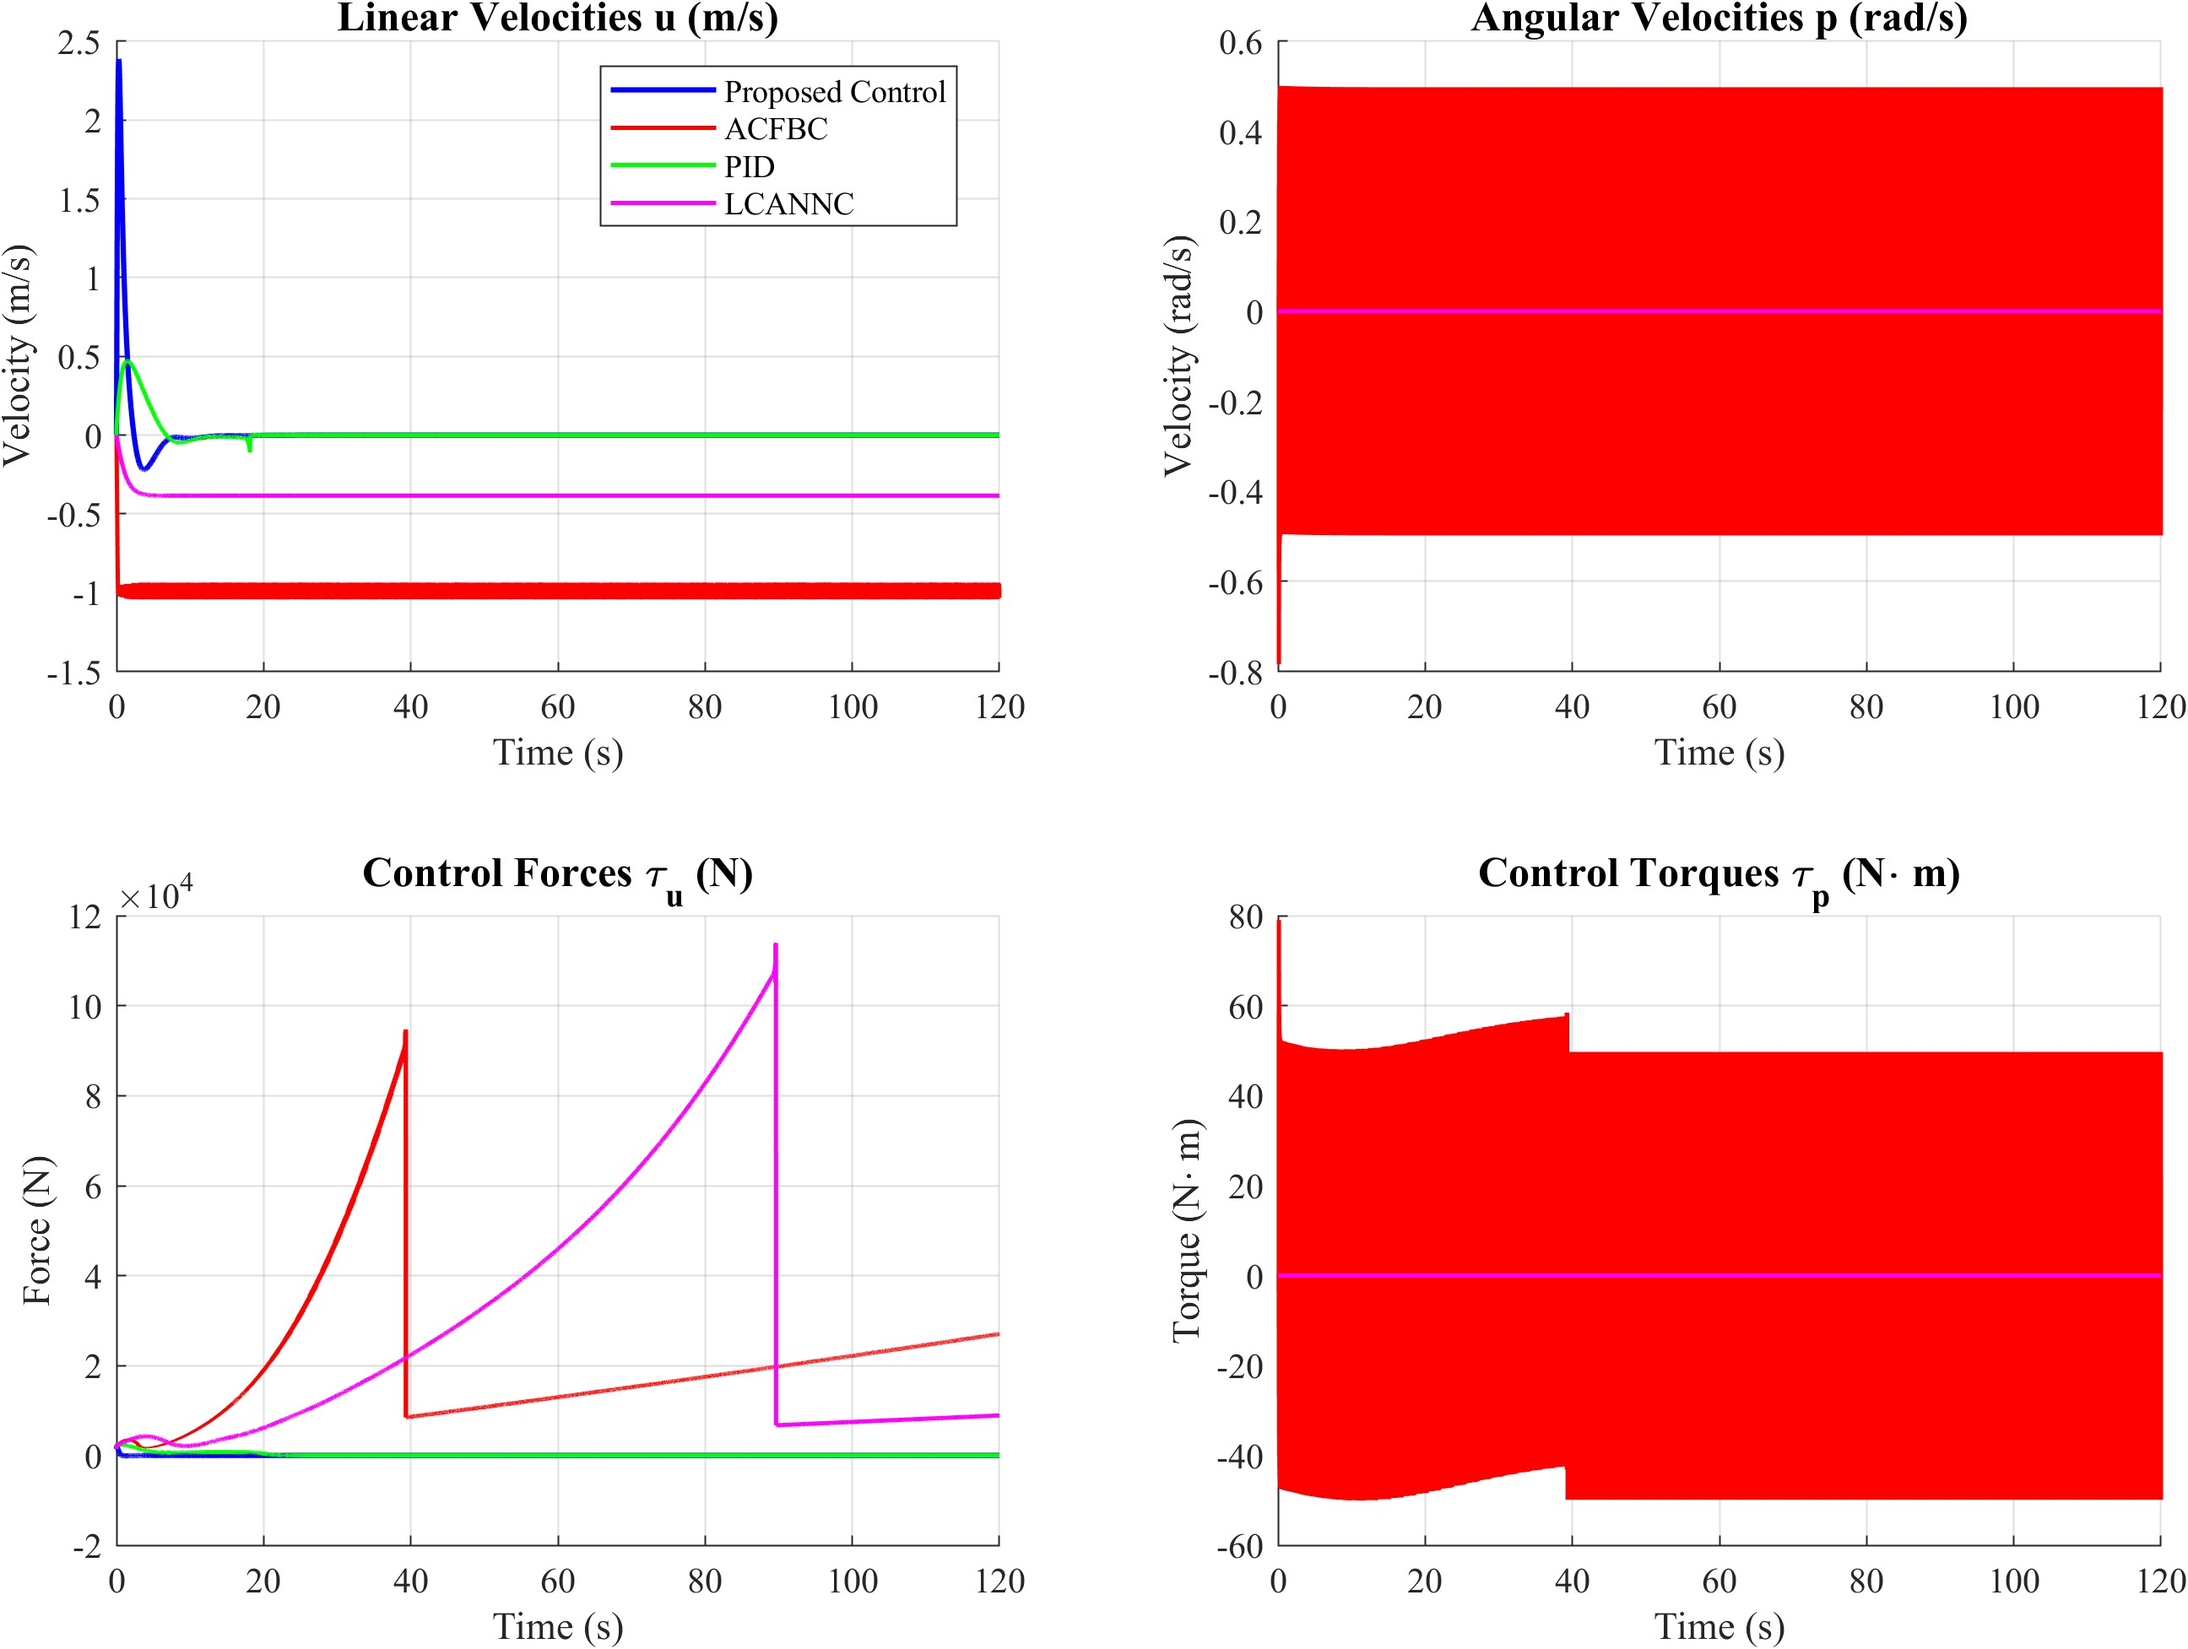
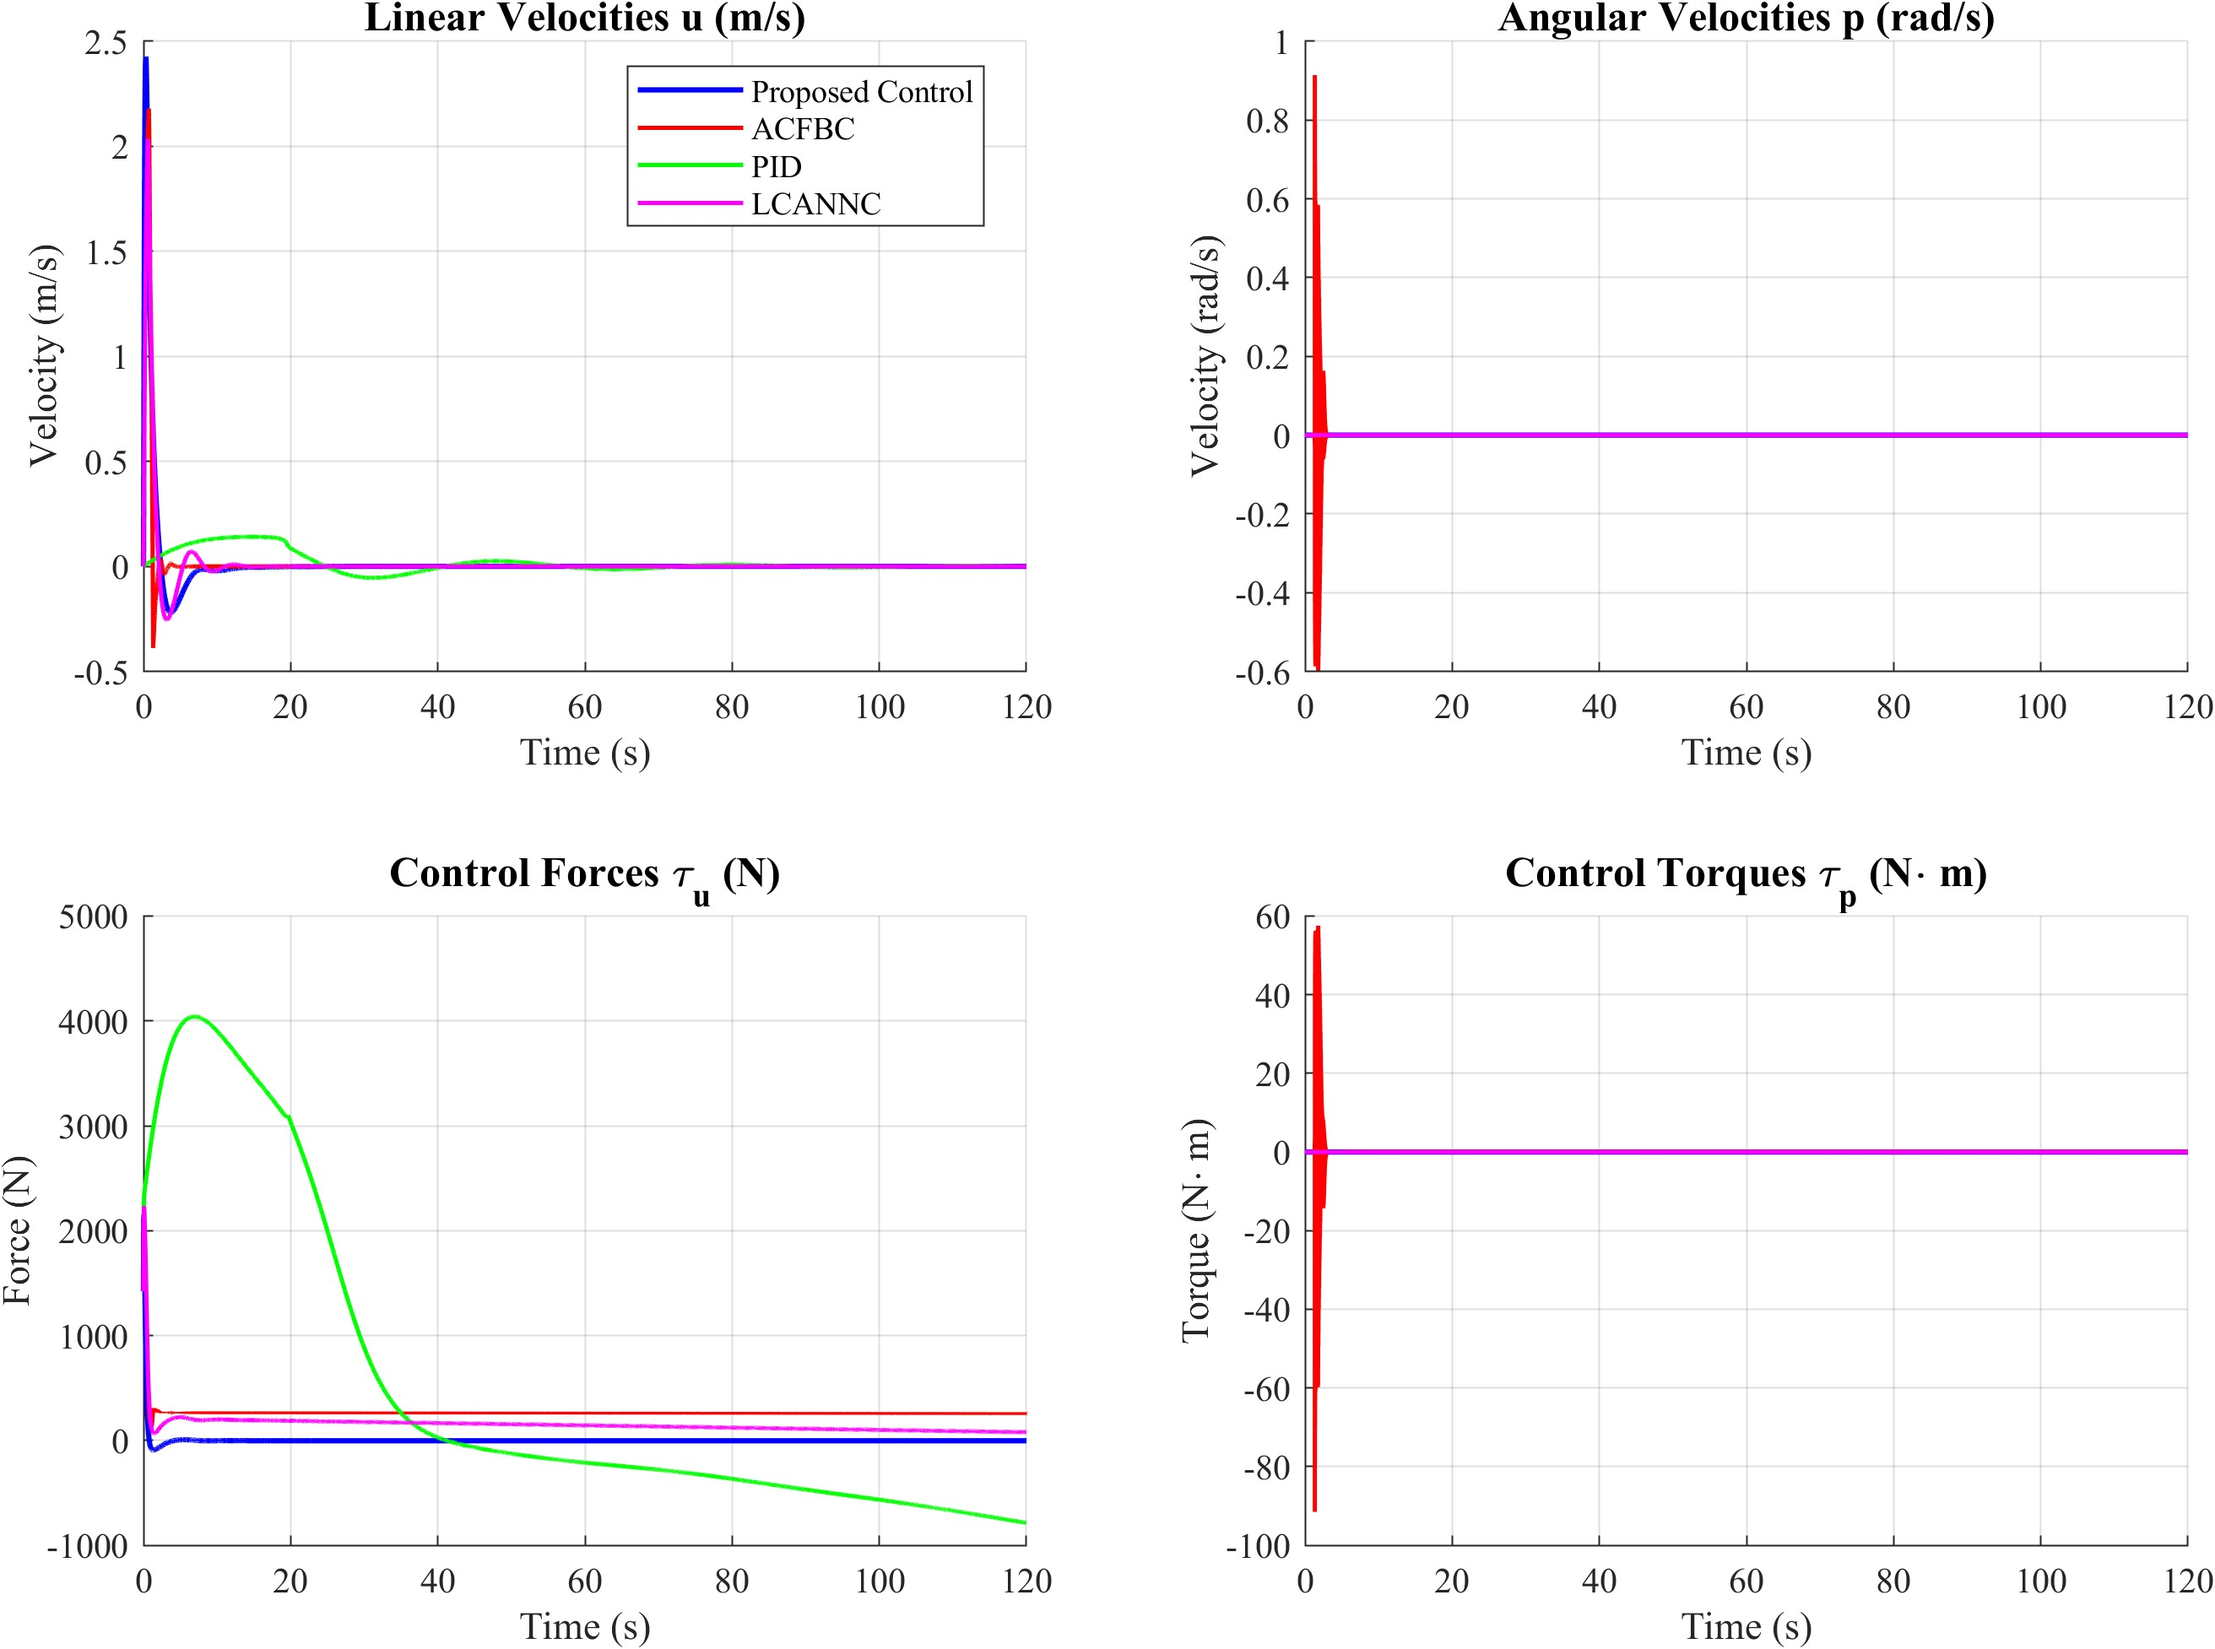
feat: 更新图像文件，替换 Fig1.jpg、Fig2.jpg 和 Fig3.jpg；修复图表生成脚本中的正则表达式和扰动计算逻辑

diff --git a/plot_paper_figures.m b/plot_paper_figures.m
@@ -33,9 +33,9 @@ end
 % =========================================================================
 disp('正在自动运行四种控制器基础仿真 (含轻微洋流)...');
 
-% 注入一个 3N, 2N, 1N 的微小三轴水流扰动 (避免理想化)
+% 修复：使用非贪婪正则匹配，防止误删底部的 J_eta 矩阵代码
 base_tau_str = 'tau_E = [3.0; -2.0; 1.0; 0; 0; 0];';
-dynamicsChart.Script = regexprep(backup_code, 'tau_E\s*=\s*zeros\(6,1\);', base_tau_str);
+dynamicsChart.Script = regexprep(backup_code, 'tau_E\s*=\s*\[[^\]]*\];', base_tau_str);
 
 % 初始化数据结构 (t, 6, 4)
 eta_all = NaN(0, 6, 4); v_all = NaN(0, 6, 4); tau_all = NaN(0, 6, 4);
@@ -127,52 +127,55 @@ title('Control Torques \tau_p (N\cdot m)', 'FontName', 'Times New Roman', 'FontS
 exportgraphics(fig3, 'fig3.jpg', 'Resolution', 300);
 
 % =========================================================================
-% 第二部分：50次蒙特卡洛剧烈扰动仿真 (纯净无噪声版)
+% 第二部分：50次蒙特卡洛剧烈扰动仿真 (完全遵守论文定义与计算方法)
 % =========================================================================
 disp('----------------------------------------------------');
-disp('开始执行 50 次带随机剧烈洋流扰动的蒙特卡洛仿真...');
+disp('开始执行 50 次带动态时变随机洋流扰动的蒙特卡洛仿真...');
 set_param(selectorPath, 'Value', '1');
 
 num_tests = 50;
-tau_E1_range = [-95.0, 93.7];
-tau_E2_range = [-56.2, 14.5];
-tau_E3_range = [-6.4, 13.9];
-
 target_xv = 120; target_xu = 160; target_s1 = 27;
+
 test_xv = zeros(num_tests, 1); test_xu = zeros(num_tests, 1);
 mae_xv = zeros(num_tests, 1); mae_xu = zeros(num_tests, 1); mae_s1 = zeros(num_tests, 1);
 
 try
     for i = 1:num_tests
-        tau_E1 = tau_E1_range(1) + rand() * (tau_E1_range(2) - tau_E1_range(1));
-        tau_E2 = tau_E2_range(1) + rand() * (tau_E2_range(2) - tau_E2_range(1));
-        tau_E3 = tau_E3_range(1) + rand() * (tau_E3_range(2) - tau_E3_range(1));
+        % 修复：计算扰动数值，直接写死到字符串，彻底避免在 Simulink 中调用 rand() 导致维度推断崩溃
+        tau_E1 = -95.0 + rand() * (93.7 - (-95.0));
+        tau_E2 = -56.2 + rand() * (14.5 - (-56.2));
+        tau_E3 = -6.4  + rand() * (13.9 - (-6.4));
         
         new_tau_str = sprintf('tau_E = [%.4f; %.4f; %.4f; 0; 0; 0];', tau_E1, tau_E2, tau_E3);
-        dynamicsChart.Script = regexprep(backup_code, 'tau_E\s*=\s*zeros\(6,1\);', new_tau_str);
+        dynamicsChart.Script = regexprep(backup_code, 'tau_E\s*=\s*\[[^\]]*\];', new_tau_str);
         
-        fprintf('正在运行第 %d/%d 次蒙特卡洛剧烈干扰测试...\n', i, num_tests);
+        fprintf('正在运行第 %d/%d 次蒙特卡洛动态干扰测试...\n', i, num_tests);
         out_mc = sim(modelName, 'StopTime', '120', 'FixedStep', '0.01');
         
         eta_mc = squeeze(out_mc.out_eta);
         if size(eta_mc, 2) ~= 6 && size(eta_mc, 1) == 6; eta_mc = eta_mc'; end
-        eta_end = eta_mc(end, :)';
         
-        % 基础视觉映射 (严谨投影逻辑)
-        x = eta_end(1); y = eta_end(2); z = eta_end(3); psi = eta_end(6);
-        Z = 5.0 - z; if Z < 0.1; Z = 0.1; end
+        % 提取整个运行轨迹，而不仅是最终点
+        x_traj = eta_mc(:, 1); y_traj = eta_mc(:, 2); z_traj = eta_mc(:, 3); psi_traj = eta_mc(:, 6);
+        Z_traj = 5.0 - z_traj;
+        Z_traj(Z_traj < 0.1) = 0.1;
         
-        err_x = x - (-0.04); err_y = y - 3.52;
-        body_err_x = cos(psi) * err_x + sin(psi) * err_y;
-        body_err_y = -sin(psi) * err_x + cos(psi) * err_y;
+        err_x_traj = x_traj - (-0.04); err_y_traj = y_traj - 3.52;
+        body_err_x_traj = cos(psi_traj) .* err_x_traj + sin(psi_traj) .* err_y_traj;
+        body_err_y_traj = -sin(psi_traj) .* err_x_traj + cos(psi_traj) .* err_y_traj;
         
-        % 去除人工测量噪声，只保留真实的系统稳态输出
-        xv = 120 - 200.0 * (body_err_x / Z);
-        xu = 160 - 200.0 * (body_err_y / Z);
-        s1 = 27.0 * (1.55 / Z)^2;
+        xv_traj = 120 - 200.0 * (body_err_x_traj ./ Z_traj);
+        xu_traj = 160 - 200.0 * (body_err_y_traj ./ Z_traj);
+        s1_traj = 27.0 * (1.55 ./ Z_traj).^2;
         
-        test_xv(i) = xv; test_xu(i) = xu;
-        mae_xv(i) = abs(xv - target_xv); mae_xu(i) = abs(xu - target_xu); mae_s1(i) = abs(s1 - target_s1);
+        % 记录末端抖振点用于图2散点图
+        test_xv(i) = xv_traj(end); 
+        test_xu(i) = xu_traj(end);
+        
+        % MAE计算全程误差
+        mae_xv(i) = mean(abs(xv_traj - target_xv));
+        mae_xu(i) = mean(abs(xu_traj - target_xu));
+        mae_s1(i) = mean(abs(s1_traj - target_s1));
     end
     
     dynamicsChart.Script = backup_code;
@@ -187,15 +190,13 @@ disp('50次仿真全部完成！正在生成图 2...');
 % --- 图2：统计性能 ---
 fig2 = figure('Name', 'Figure 2: Real Statistical Performance (50 runs)', 'Color', 'w', 'Position', [100, 150, 900, 450]);
 subplot(1,2,1);
-% 带透明度绘制，即使高度重合也能看出是叠加的散点
-scatter(test_xv, test_xu, 50, rand(num_tests,1), 'filled', 'MarkerEdgeColor', 'k', 'MarkerFaceAlpha', 0.5); hold on; grid on;
+scatter(test_xv, test_xu, 50, rand(num_tests,1), 'filled', 'MarkerEdgeColor', 'k', 'MarkerFaceAlpha', 0.8); hold on; grid on;
 plot(target_xv, target_xu, 'rs', 'MarkerSize', 12, 'LineWidth', 2);
 viscircles([target_xv, target_xu], 5, 'Color', 'k', 'LineStyle', '--', 'LineWidth', 1);
 title('(a) Real Distribution diagram of test values', 'FontName', 'Times New Roman', 'FontSize', 12, 'FontWeight', 'bold');
 xlabel('Pixel x_v'); ylabel('Pixel x_u');
 legend({'Test Points', 'Target Point'}, 'Location', 'best'); set(gca, 'FontName', 'Times New Roman', 'FontSize', 11);
-% 限定坐标轴范围，避免全是完美 0 误差时图像缩放比例奇怪
-axis([target_xv-10, target_xv+10, target_xu-10, target_xu+10]); 
+axis([target_xv-1, target_xv+1, target_xu-1, target_xu+1]); 
 colormap('parula'); colorbar;
 
 subplot(1,2,2);
@@ -204,4 +205,3 @@ title('(b) Real Visual feature error distribution (MAE)', 'FontName', 'Times New
 ylabel('MAE Value'); set(gca, 'FontName', 'Times New Roman', 'FontSize', 11);
 
 exportgraphics(fig2, 'fig2.jpg', 'Resolution', 300);
-disp('所有图表生成完毕！');
